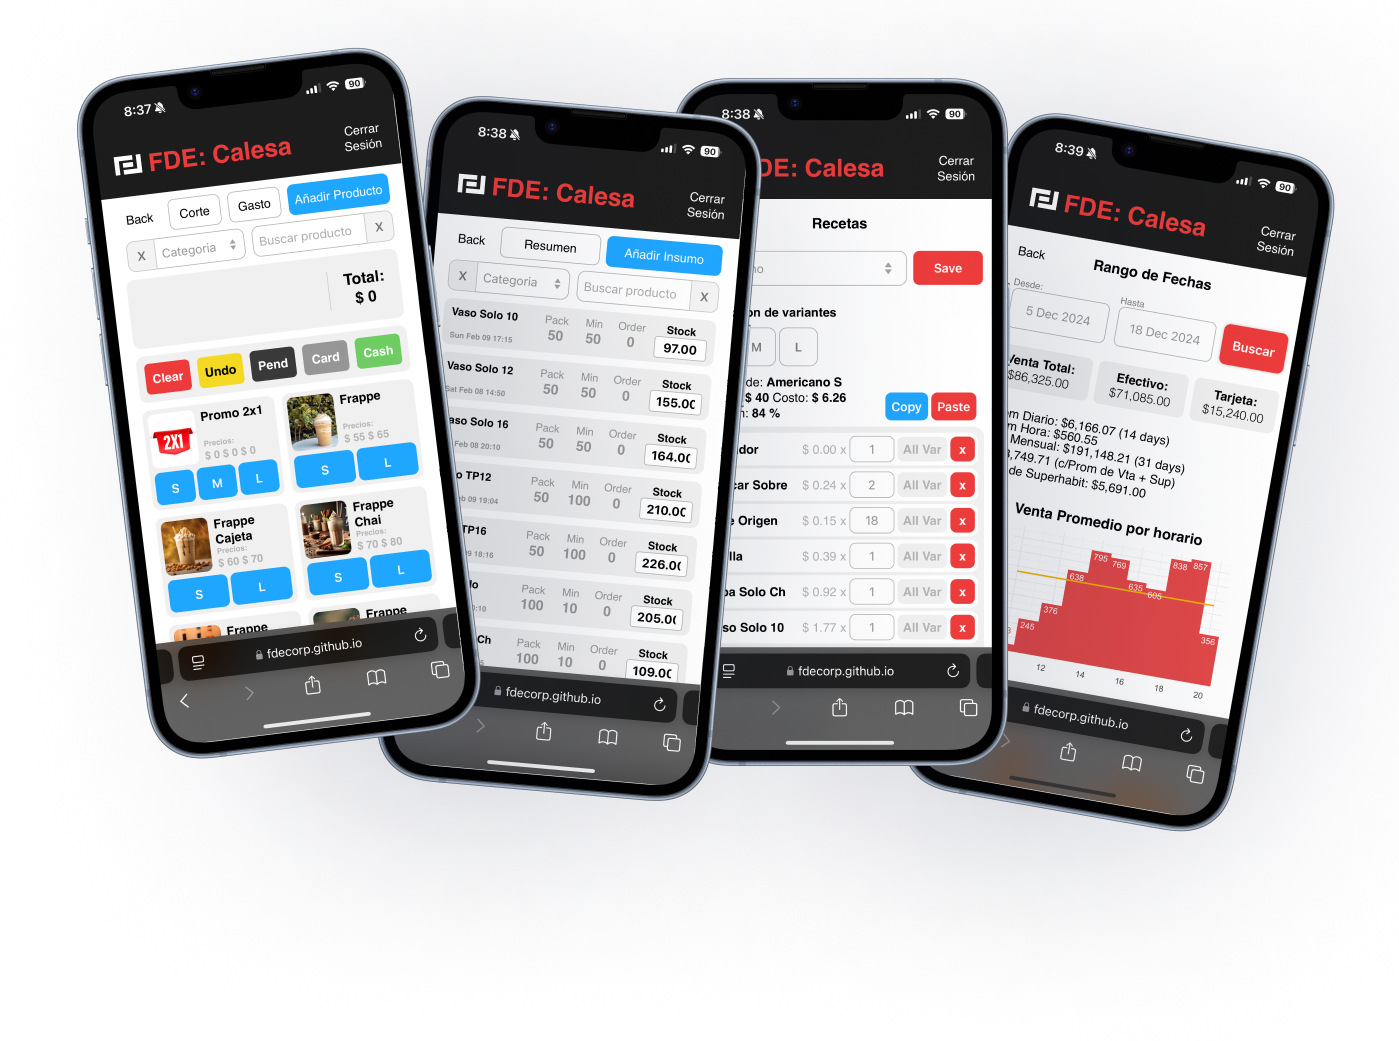
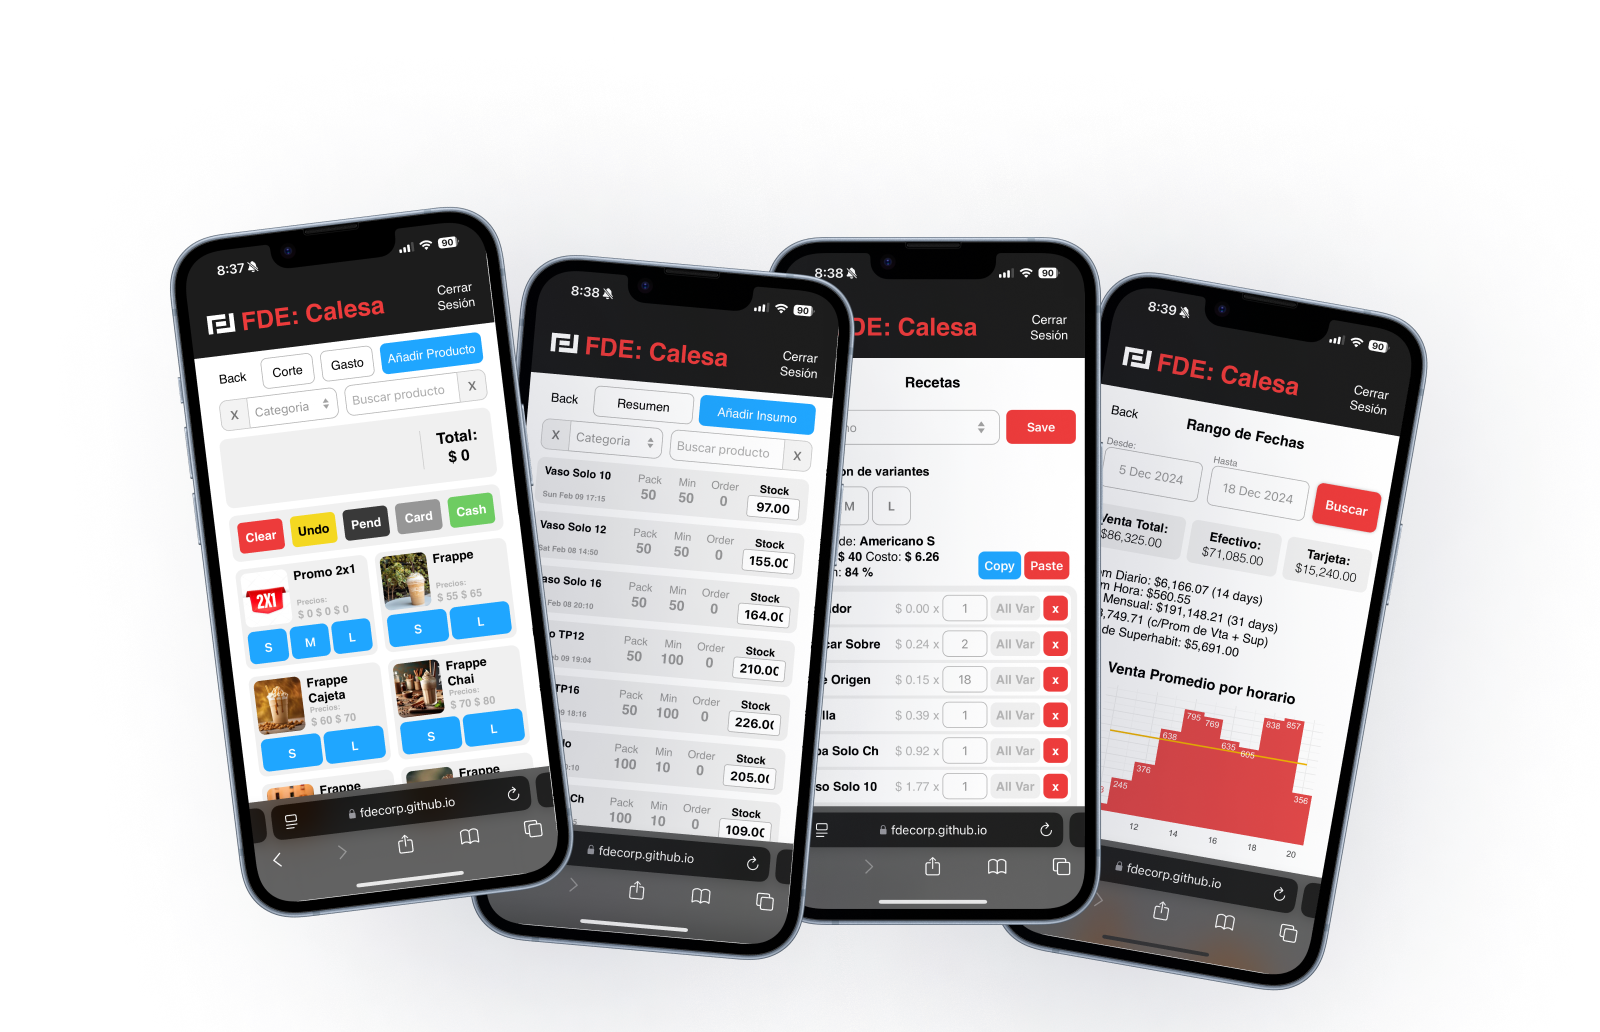
img crop

diff --git a/hp.css b/hp.css
@@ -103,7 +103,7 @@ button{
     url('Shot Overlaps.png'); 
     background-size: cover;   
     background-repeat:no-repeat;
-    background-position: center center;
+    background-position: center;
 }
 
 @media (max-width: 600px) {
